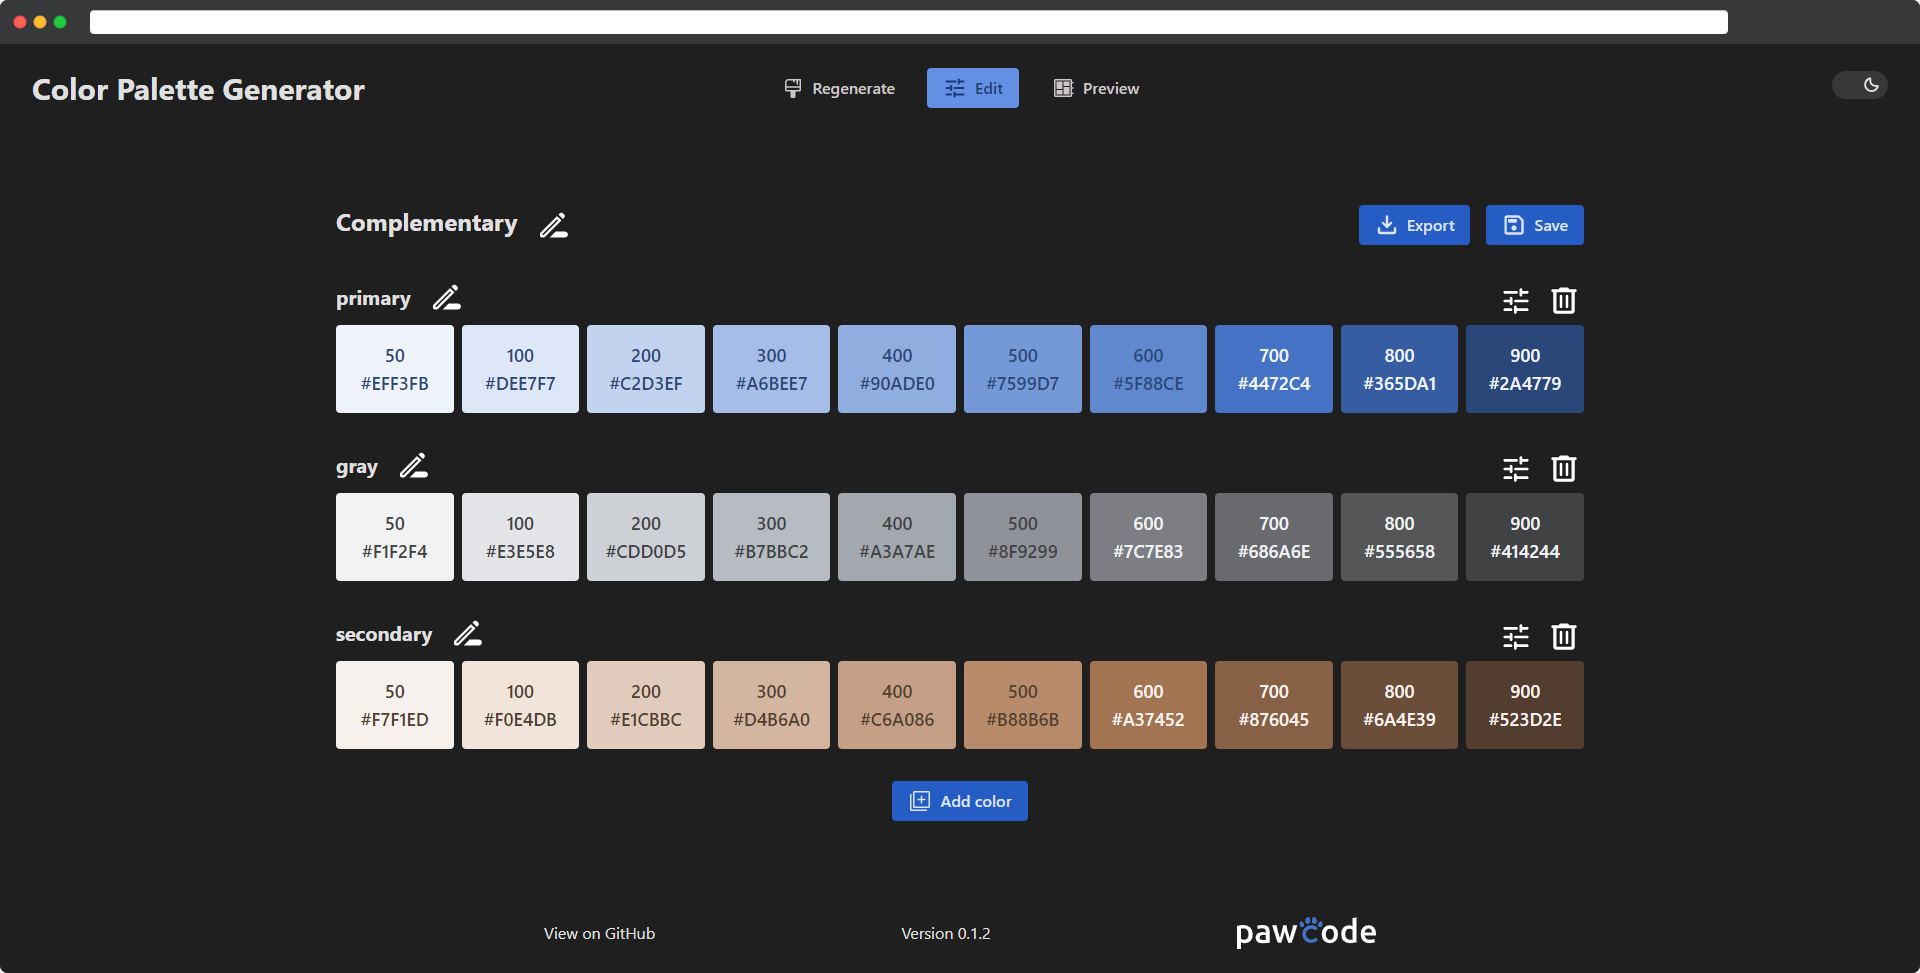
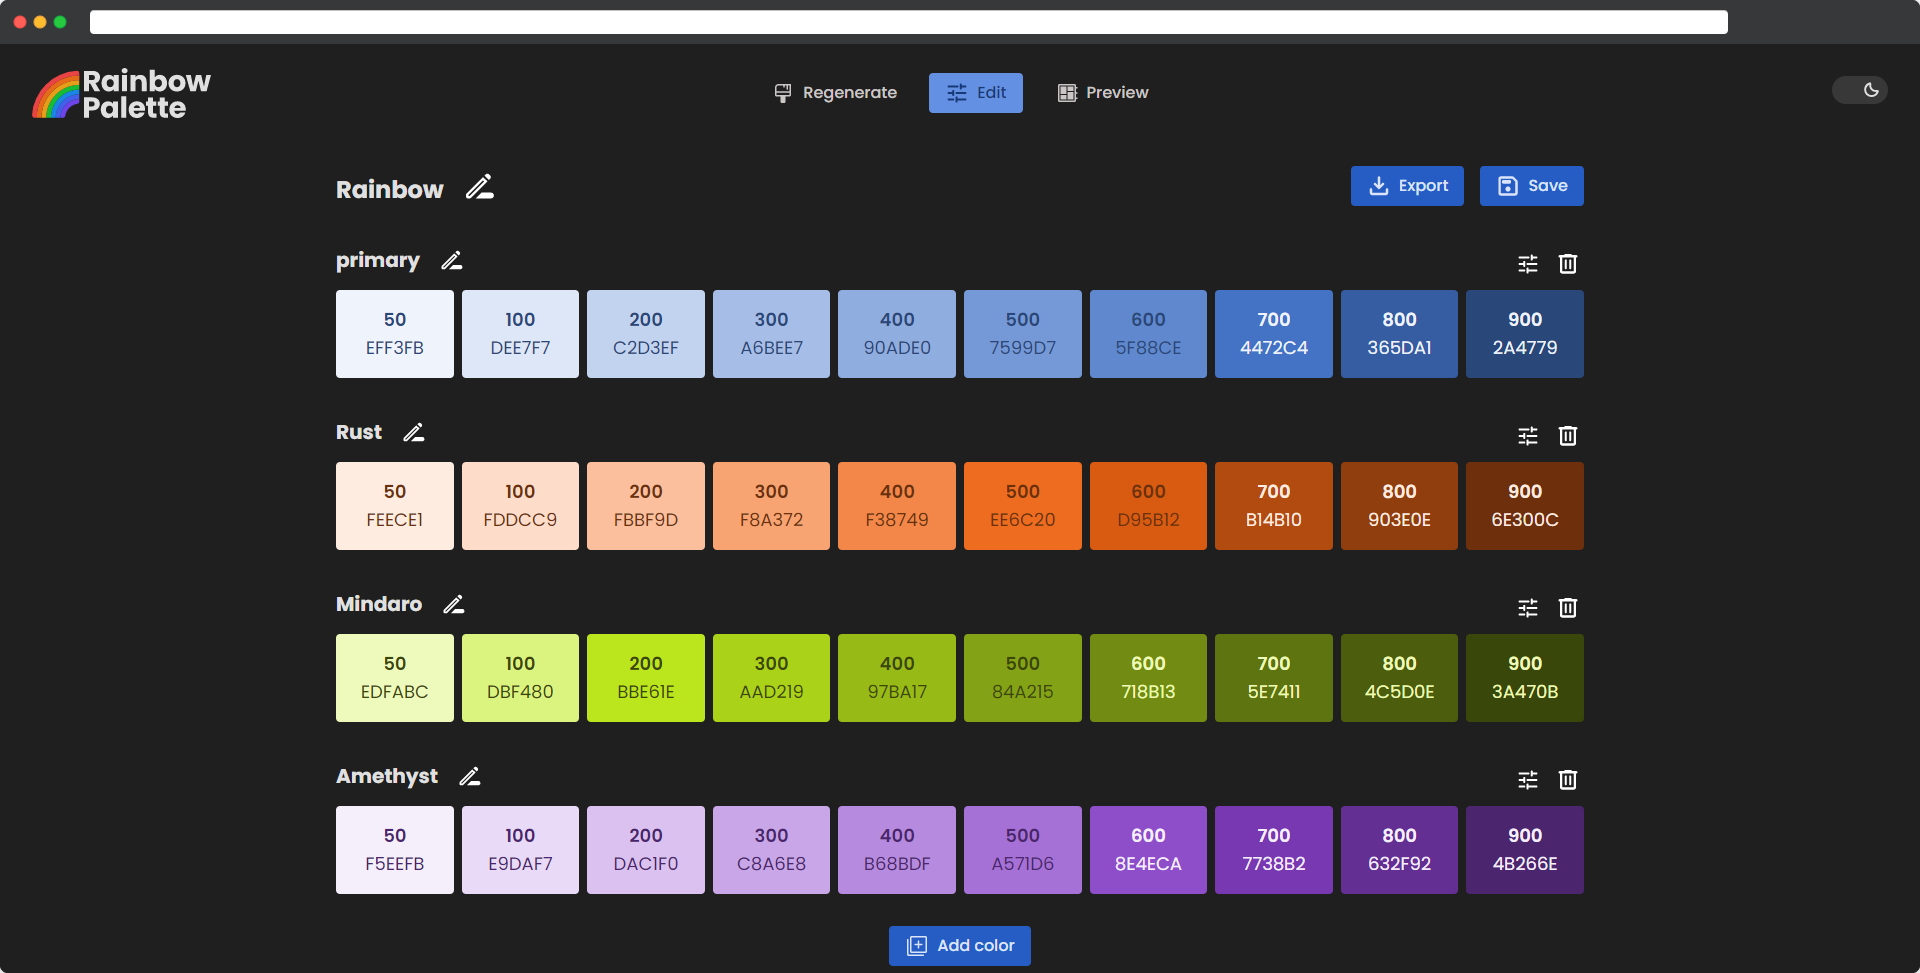
Change Name

diff --git a/src/app/components/palette-viewer/palette-viewer.component.ts b/src/app/components/palette-viewer/palette-viewer.component.ts
@@ -6,6 +6,7 @@ import {StorageService} from "../../services/storage.service";
 import {NotificationService} from "../../services/notification.service";
 import {ExportDialog} from "../../dialogs/export.dialog";
 
+
 @Component({
   selector: 'palette-viewer',
   templateUrl: './palette-viewer.component.html',
@@ -13,7 +14,7 @@ import {ExportDialog} from "../../dialogs/export.dialog";
 export class PaletteViewerComponent implements OnInit {
 
   @Input()
-  palette: Palette
+  palette: Palette | undefined
 
   @Input()
   dark = false
@@ -31,9 +32,7 @@ export class PaletteViewerComponent implements OnInit {
   constructor(
     private storage: StorageService,
     private notificationService: NotificationService
-  ) {
-    this.palette = Palette.generateRandomPalette(5)
-  }
+  ) { }
 
   ngOnInit(): void {
   }
@@ -73,8 +72,7 @@ export class PaletteViewerComponent implements OnInit {
    * @param color Color to remove from palette
    */
   removeColor(color: Color) {
-    if (this.palette.removeColor(color))
-      this.savePalette()
+    this.palette?.removeColor(color)
   }
 
   /**
@@ -84,7 +82,7 @@ export class PaletteViewerComponent implements OnInit {
     const target = ($event.target as HTMLButtonElement)
     this.adding = true
     setTimeout(() => {
-      this.palette.addColor(Color.generateRandomColor(), false)
+      this.palette?.addColor(Color.generateRandomColor(), false)
       this.adding = false
       setTimeout(() => {
         window.scroll({
@@ -100,7 +98,8 @@ export class PaletteViewerComponent implements OnInit {
    */
   savePalette() {
     this.saving = true
-    this.storage.savePalette(this.palette)
+    if (this.palette)
+      this.storage.savePalette(this.palette)
     setTimeout(() => {
       this.notificationService.notification.emit('Palette saved')
       this.saving = false
@@ -122,18 +121,21 @@ export class PaletteViewerComponent implements OnInit {
    */
   closeEditor() {
     this.editingState = false
-    this.palette.title = this.editTitle?.nativeElement.value || 'Random'
+    if (this.palette)
+      this.palette.title = this.editTitle?.nativeElement.value || 'Random'
   }
 
   /**
    * Export a palette for download and usage as plain CSS or Tailwind config.
    */
   exportPalette() {
-    this.notificationService.dialog
-      .emit(new ExportDialog(
-        this.notificationService.dialog,
-        this.palette
-      ).getNotification())
+    if (this.palette) {
+      this.notificationService.dialog
+        .emit(new ExportDialog(
+          this.notificationService.dialog,
+          this.palette
+        ).getNotification())
+    }
   }
 
 }

diff --git a/src/app/app.component.html b/src/app/app.component.html
@@ -5,14 +5,15 @@
 >
   <header class="w-full grid grid-cols-1 sm:grid-cols-7 lg:grid-cols-4 gap-4 px-8 items-center mb-10">
     <img
-      src="/assets/rainbow-palette-logo.svg"
       alt="Rainbow Palette"
-      class="max-h-16 mx-auto sm:ml-0"
+      class="mx-auto sm:ml-0 col-span-1 sm:col-span-2 lg:col-span-1"
+      height="50" width="179"
+      [src]="'/assets/rainbow-palette-' + (dark ? 'light' : 'dark') + '.svg'"
     >
 
     <nav class="col-span-1 sm:col-span-4 lg:col-span-2">
       <div
-        class="mr-auto sm:mx-auto w-fit"
+        class="mx-auto w-fit"
       >
         <ul
           *ngIf="paletteService.hasPalette()"
@@ -84,7 +85,7 @@
       <img
         height="32" width="139"
         alt="pawcode&nbsp;Development"
-        [src]="'assets/pawcode-' + (dark ? 'light' : 'dark') + '.svg'"
+        [src]="'/assets/pawcode-' + (dark ? 'light' : 'dark') + '.svg'"
       >
     </a>
   </footer>

diff --git a/src/app/components/color-viewer/color-viewer.component.ts b/src/app/components/color-viewer/color-viewer.component.ts
@@ -12,7 +12,7 @@ import {NotificationService} from "../../services/notification.service";
 export class ColorViewerComponent implements OnInit {
 
   @Input()
-  color: Color
+  color: Color | undefined
   @Input()
   dark = false
 
@@ -27,9 +27,7 @@ export class ColorViewerComponent implements OnInit {
   constructor(
     public colorService: ColorService,
     private notificationService: NotificationService
-  ) {
-    this.color = Color.generateRandomColor()
-  }
+  ) { }
 
   ngOnInit(): void {
   }
@@ -58,7 +56,8 @@ export class ColorViewerComponent implements OnInit {
    */
   closeEditor() {
     this.editingState = false
-    this.color.name = this.editName?.nativeElement.value || 'Random'
+    if (this.color)
+      this.color.name = this.editName?.nativeElement.value || 'Random'
   }
 
   /**

diff --git a/src/app/pages/preview/preview.component.html b/src/app/pages/preview/preview.component.html
@@ -11,12 +11,12 @@
          rel="noreferrer noopener"
          class="underline"
          title="View source code on GitHub">GitHub</a>
-      or my
+      or our
       <a href="https://discord.gg/GzgTh4hxrx"
          target="_blank"
          rel="noreferrer noopener"
          class="underline"
-         title="Get more info on Discord">Discord</a>
+         title="Get more info on Discord">Discord Server</a>
       for more information.
     </p>
   </article>

diff --git a/src/app/components/color-viewer/color-viewer.component.html b/src/app/components/color-viewer/color-viewer.component.html
@@ -1,5 +1,5 @@
 <div [class]="dark ? 'dark' : ''">
-  <article
+  <article *ngIf="color"
     class="my-8 items-center cursor-default overflow-clip
            grid grid-cols-2 sm:grid-cols-5 lg:grid-cols-10 grid-areas-color-square sm:grid-areas-color-semi lg:grid-areas-color-wide"
   >

diff --git a/src/app/components/palette-viewer/palette-viewer.component.html b/src/app/components/palette-viewer/palette-viewer.component.html
@@ -1,5 +1,5 @@
 <div [class]="dark ? 'dark' : ''">
-  <section
+  <section *ngIf="palette"
     class="px-4"
   >
     <div class="flex flex-col sm:flex-row items-center gap-4 mb-6">

diff --git a/README.md b/README.md
@@ -1,4 +1,4 @@
-# Color Palette Generator
+# Rainbow Palette
 
 [![GitHub](https://img.shields.io/github/license/pawcoding/tailwind-color-generator?color=brightgreen)](https://github.com/pawcoding/tailwind-color-generator/blob/main/LICENSE)
 [![Live Demo](https://img.shields.io/badge/live--demo-online-blue)](https://colors.apps.pawcode.de)
@@ -35,24 +35,26 @@ All suggestions are discussed there, tasks are distributed and help is offered.
   - [x] `manifest.webmanifest`
   - [x] `angular.json`
   - [x] `index.html`
-  - [ ] Favicon
-  - [ ] Font caching
+  - [x] Favicon
 - [x] Setup hosting for `/edit` with `.htaccess`
 - [x] Create `sitemap.xml`
 - [x] Check Lighthouse Reports
   - [x] Desktop
   - [x] Mobile
 - [x] Check IONOS Website Checker
-- [ ] Proper mobile view
+- [x] Proper mobile view
 - [x] Color-Namer
   - [x] Add dictionary
   - [x] Switch dictionary to CSV format for better loading times (reduced size by 1/3)
 - [x] Rename generate button
 - [x] Add rainbow scheme
 - [x] Reduce icon size
-- [ ] Change name
-- [x] Fix rounded color input (hopefully fixed. Need confirmation)
+- [x] Change name
+- [ ] Fix rounded color input (hopefully fixed, need confirmation)
 - [x] Search font from Google Fonts
+- [x] New Screenshots
+- [x] Minify `.svg`s
+- [x] Remove unnecessary nameColor calls
 
 ### Side features
 - [x] Favicon draft
@@ -69,11 +71,11 @@ All suggestions are discussed there, tasks are distributed and help is offered.
 
 | From \ To | HEX | RGB | HSL | HSV | CMYK |
 |-----------|-----|-----|-----|-----|------|
-| **HEX**   |     | 🟩  | 🟨  | 🟨  | 🟨  |
-| **RGB**   | 🟩  |     | 🟩  | 🟨  | 🟩  |
-| **HSL**   | 🟨  | 🟩  |     | 🟩  | 🟨  |
-| **HSV**   | 🟨  | 🟨  | 🟩  |     | 🟨  |
-| **CMYK**  | 🟨  | 🟩  | 🟨  | 🟨  |     |
+| **HEX**   |     | 🟩  | 🟨  | 🟨  | 🟨   |
+| **RGB**   | 🟩  |     | 🟩  | 🟨  | 🟩   |
+| **HSL**   | 🟨  | 🟩  |     | 🟩  | 🟨   |
+| **HSV**   | 🟨  | 🟨  | 🟩  |     | 🟨   |
+| **CMYK**  | 🟨  | 🟩  | 🟨  | 🟨  |      |
 
 🟩: Direct conversion  
 🟨: Indirect conversion  
